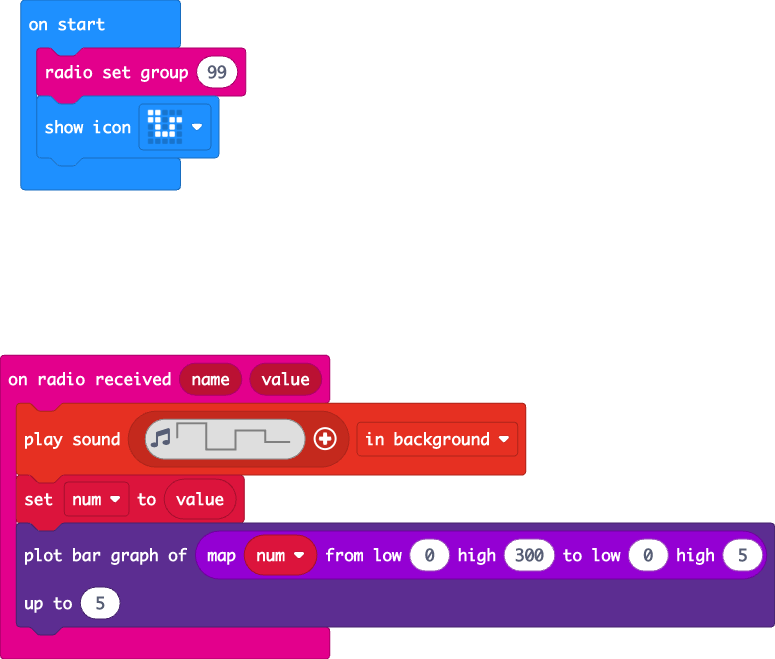
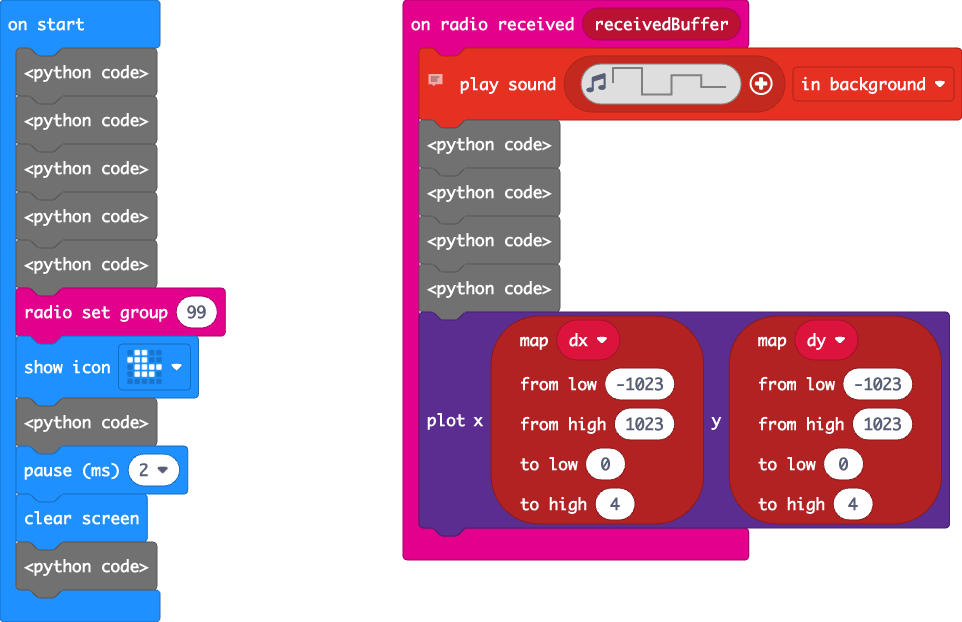
tesla monitoring

diff --git a/main.ts b/main.ts
@@ -1,11 +1,21 @@
-radio.onReceivedValue(function (name, value) {
+radio.onReceivedBuffer(function on_received_buffer(receivedBuffer: Buffer) {
+    
+    //  decode data
     music.playSoundEffect(music.createSoundEffect(WaveShape.Square, 200, 1, 255, 0, 100, SoundExpressionEffect.None, InterpolationCurve.Curve), SoundExpressionPlayMode.InBackground)
-    num = value
-    led.plotBarGraph(
-    Math.map(num, 0, 300, 0, 5),
-    5
-    )
+    ux = receivedBuffer.getNumber(NumberFormat.Int16LE, 0)
+    dx = receivedBuffer.getNumber(NumberFormat.Int16LE, 2)
+    dy = receivedBuffer.getNumber(NumberFormat.Int16LE, 4)
+    dz = receivedBuffer.getNumber(NumberFormat.Int16LE, 6)
+    led.plot(pins.map(ux, -1023, 1023, 0, 4), pins.map(dy, -1023, 1023, 0, 4))
 })
-let num = 0
+let dz = 0
+let dy = 0
+let dx = 0
+let ux = 0
+let buff = control.createBuffer(8)
 radio.setGroup(99)
-basic.showIcon(IconNames.Snake)
+basic.showIcon(IconNames.Duck)
+radio.off()
+basic.pause(2)
+basic.clearScreen()
+radio.on()

diff --git a/main.py b/main.py
@@ -1,0 +1,31 @@
+def on_received_buffer(receivedBuffer):
+    global ux, dx, dy, dz
+    # decode data
+    music.play_sound_effect(music.create_sound_effect(WaveShape.SQUARE,
+            200,
+            1,
+            255,
+            0,
+            100,
+            SoundExpressionEffect.NONE,
+            InterpolationCurve.CURVE),
+        SoundExpressionPlayMode.IN_BACKGROUND)
+    ux = receivedBuffer.get_number(NumberFormat.INT16_LE, 0)
+    dx = receivedBuffer.get_number(NumberFormat.INT16_LE, 2)
+    dy = receivedBuffer.get_number(NumberFormat.INT16_LE, 4)
+    dz = receivedBuffer.get_number(NumberFormat.INT16_LE, 6)
+    led.plot(pins.map(ux, 0, 100, 0, 4),
+        pins.map(uy, 0, 100, 0, 4))
+radio.on_received_buffer(on_received_buffer)
+
+dz = 0
+dy = 0
+dx = 0
+ux = 0
+buff = bytearray(8)
+radio.set_group(99)
+basic.show_icon(IconNames.DUCK)
+radio.off()
+basic.pause(2)
+basic.clear_screen()
+radio.on()
